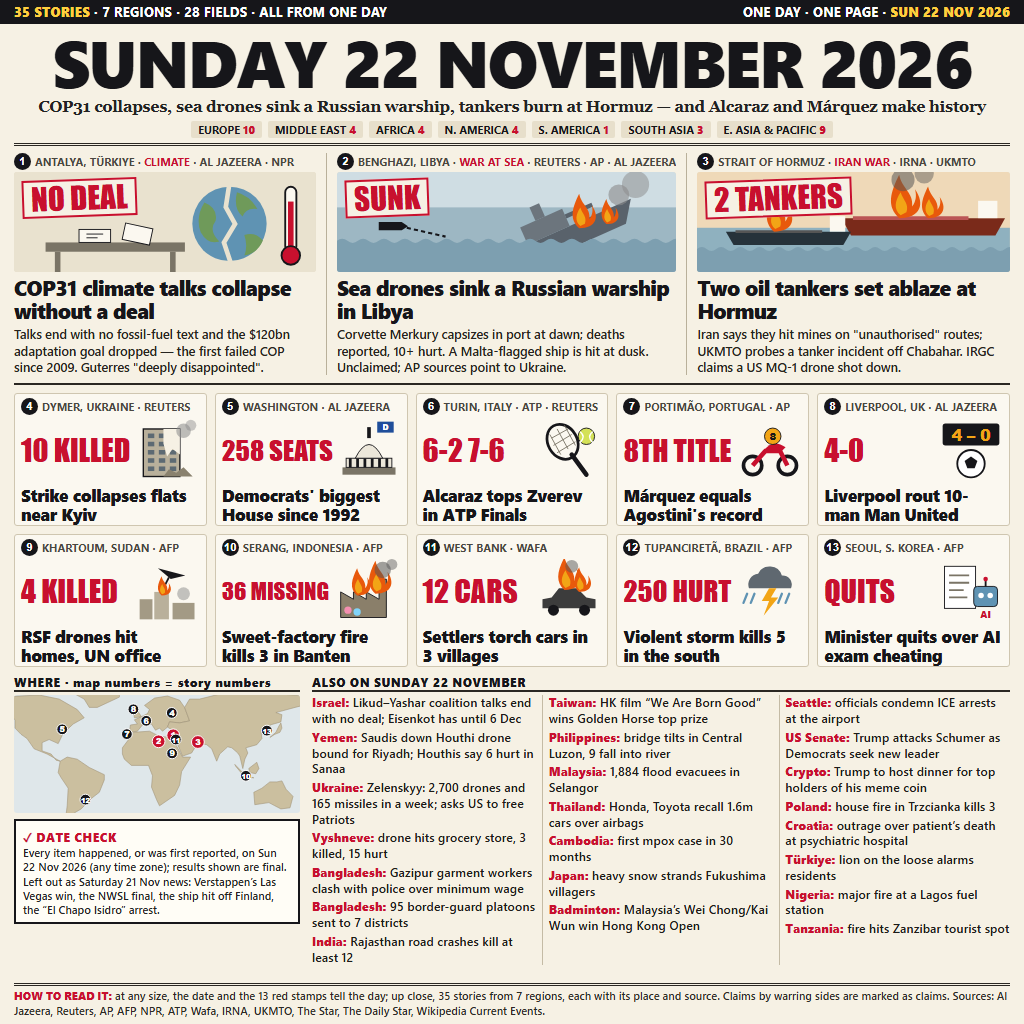
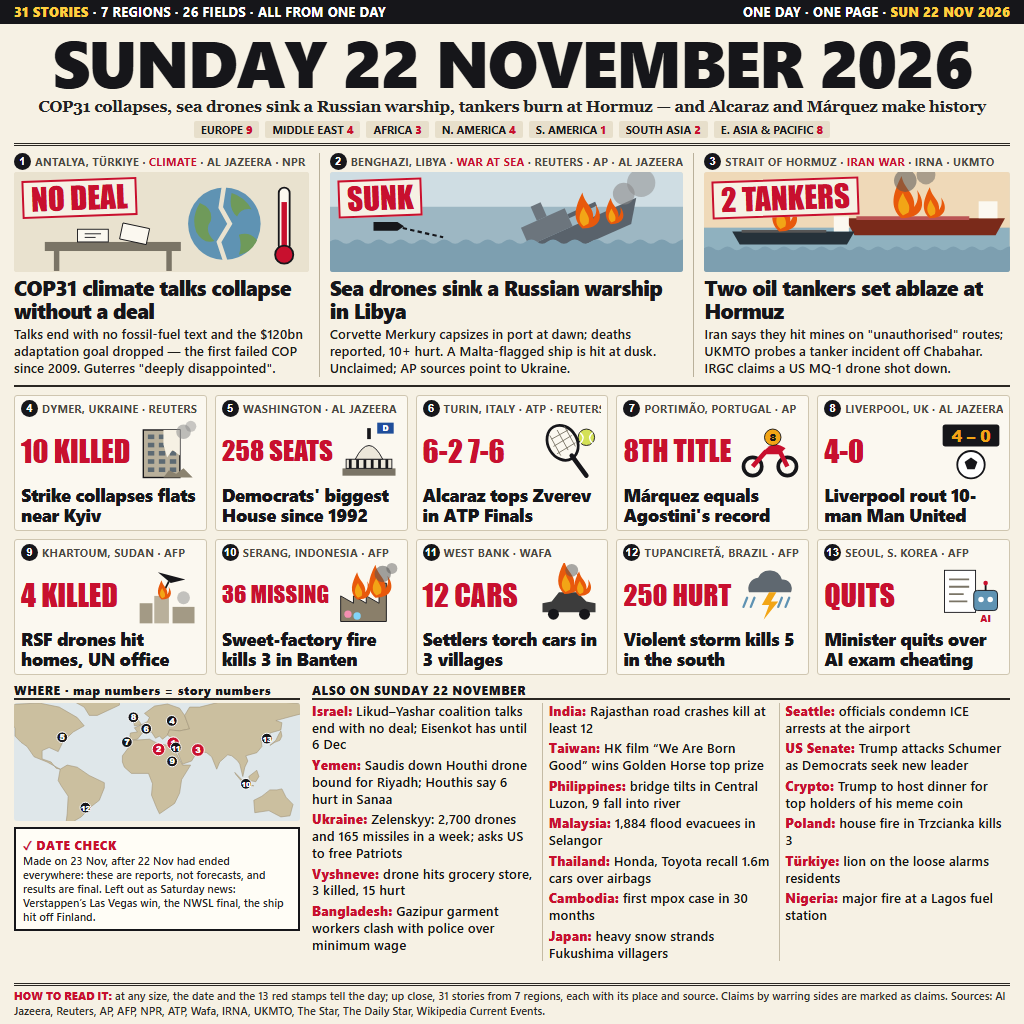
Bigger type, 18 briefs, after-the-day note in the date check

Changed region(s): [[0.0, 0.125, 1.0, 0.9375], [0.4375, 0.9688, 0.9688, 1.0], [0.0312, 0.0, 0.375, 0.0312]]

diff --git a/src/page.html b/src/page.html
@@ -20,7 +20,7 @@
   .leads { display:grid; grid-template-columns:repeat(3,1fr); gap:10px; padding:7px 14px 0; }
   .lead { border-right:1px solid #b9b09a; padding-right:10px; position:relative; }
   .lead:last-child { border-right:0; padding-right:0; }
-  .label { font:700 10.5px/13px "Segoe UI", Arial; color:var(--muted); text-transform:uppercase; letter-spacing:.3px;
+  .label { font:700 11px/13px "Segoe UI", Arial; color:var(--muted); text-transform:uppercase; letter-spacing:.3px;
     white-space:nowrap; overflow:hidden; }
   .label i { font-style:normal; color:var(--red); }
   .lead .pic { position:relative; height:100px; margin-top:2px; background:#e4ddca; border-radius:3px; overflow:hidden; }
@@ -31,14 +31,14 @@
   .num { display:inline-block; width:17px; height:17px; border-radius:50%; background:var(--ink); color:#fff;
     font:700 11px/17px Arial; text-align:center; margin-right:4px; vertical-align:1px; }
   .lead h2 { font:800 20.5px/1.12 "Segoe UI", Arial; margin-top:5px; letter-spacing:-.3px; }
-  .lead p { font:500 12.6px/1.3 "Segoe UI", Arial; margin-top:3px; color:#26241f; }
+  .lead p { font:600 13.2px/1.28 "Segoe UI", Arial; margin-top:3px; color:#1d1c19; }
   .cards { display:grid; grid-template-columns:repeat(5,1fr); gap:8px; padding:8px 14px 0; border-top:0; }
   .cardrow-rule { margin:8px 14px 0; border-top:2px solid var(--rule); }
-  .card { background:#fbf8f0; border:1px solid #cfc6b0; border-radius:3px; padding:4px 6px 5px; height:133px; overflow:hidden; }
-  .card .pic { display:flex; align-items:center; justify-content:space-between; height:66px; margin-top:2px; }
+  .card { background:#fbf8f0; border:1px solid #cfc6b0; border-radius:3px; padding:4px 6px 5px; height:136px; overflow:hidden; }
+  .card .pic { display:flex; align-items:center; justify-content:space-between; height:64px; margin-top:2px; }
   .card .stamp { font-size:30px; }
   .card svg { flex:none; }
-  .card h3 { font:800 16.8px/1.13 "Segoe UI", Arial; margin-top:3px; letter-spacing:-.2px; }
+  .card h3 { font:800 18px/1.12 "Segoe UI", Arial; margin-top:2px; letter-spacing:-.35px; }
   .bottom { display:grid; grid-template-columns:286px 1fr; gap:12px; padding:8px 14px 0; }
   .mapbox h4, .briefs h4 { font:800 12px/15px "Segoe UI", Arial; letter-spacing:.6px; border-bottom:2px solid var(--rule);
     margin-bottom:3px; }
@@ -47,7 +47,7 @@
   .check b.t { font:800 12px/15px "Segoe UI", Arial; letter-spacing:.5px; color:var(--red); }
   .check p { font:600 11px/1.28 "Segoe UI", Arial; color:#222; }
   .briefs .cols { columns:3; column-gap:12px; column-rule:1px solid #c4bba5; }
-  .briefs li { list-style:none; font:600 12.4px/1.27 "Segoe UI", Arial; break-inside:avoid; margin-bottom:3px; color:#1d1c19; }
+  .briefs li { list-style:none; font:600 13.4px/1.25 "Segoe UI", Arial; break-inside:avoid; margin-bottom:4px; color:#141412; }
   .briefs li b { color:var(--red); font-weight:800; }
   footer { position:absolute; left:14px; right:14px; bottom:6px; border-top:3px double var(--rule); padding-top:3px;
     font:600 11px/1.3 "Segoe UI", Arial; color:#2b2924; }
@@ -120,7 +120,6 @@ const BRIEFS = [
   { place:'Ukraine', field:'Russia–Ukraine', region:'Europe', text:'Zelenskyy: 2,700 drones and 165 missiles in a week; asks US to free Patriots' },
   { place:'Vyshneve', field:'Russia–Ukraine', region:'Europe', text:'drone hits grocery store, 3 killed, 15 hurt' },
   { place:'Bangladesh', field:'Labour', region:'South Asia', text:'Gazipur garment workers clash with police over minimum wage' },
-  { place:'Bangladesh', field:'Security', region:'South Asia', text:'95 border-guard platoons sent to 7 districts' },
   { place:'India', field:'Road safety', region:'South Asia', text:'Rajasthan road crashes kill at least 12' },
   { place:'Taiwan', field:'Film', region:'E. Asia & Pacific', text:'HK film “We Are Born Good” wins Golden Horse top prize' },
   { place:'Philippines', field:'Infrastructure', region:'E. Asia & Pacific', text:'bridge tilts in Central Luzon, 9 fall into river' },
@@ -128,15 +127,12 @@ const BRIEFS = [
   { place:'Thailand', field:'Autos', region:'E. Asia & Pacific', text:'Honda, Toyota recall 1.6m cars over airbags' },
   { place:'Cambodia', field:'Health', region:'E. Asia & Pacific', text:'first mpox case in 30 months' },
   { place:'Japan', field:'Weather', region:'E. Asia & Pacific', text:'heavy snow strands Fukushima villagers' },
-  { place:'Badminton', field:'Badminton', region:'E. Asia & Pacific', text:'Malaysia’s Wei Chong/Kai Wun win Hong Kong Open' },
   { place:'Seattle', field:'Immigration', region:'N. America', text:'officials condemn ICE arrests at the airport' },
   { place:'US Senate', field:'US politics', region:'N. America', text:'Trump attacks Schumer as Democrats seek new leader' },
   { place:'Crypto', field:'Crypto', region:'N. America', text:'Trump to host dinner for top holders of his meme coin' },
   { place:'Poland', field:'Accidents', region:'Europe', text:'house fire in Trzcianka kills 3' },
-  { place:'Croatia', field:'Health', region:'Europe', text:'outrage over patient’s death at psychiatric hospital' },
   { place:'Türkiye', field:'Wildlife', region:'Europe', text:'lion on the loose alarms residents' },
   { place:'Nigeria', field:'Accidents', region:'Africa', text:'major fire at a Lagos fuel station' },
-  { place:'Tanzania', field:'Accidents', region:'Africa', text:'fire hits Zanzibar tourist spot' },
 ];
 
 const ALL = [...LEADS, ...CARDS, ...BRIEFS];
@@ -278,8 +274,8 @@ document.getElementById('map').innerHTML =
   `<svg width="${MAP.w}" height="${MAP.h}" viewBox="0 0 ${MAP.w} ${MAP.h}">${land}${pins}</svg>`;
 
 document.getElementById('check').innerHTML =
-  `Every item happened, or was first reported, on Sun 22 Nov 2026 (any time zone); results shown are final. ` +
-  `Left out as Saturday 21 Nov news: Verstappen’s Las Vegas win, the NWSL final, the ship hit off Finland, the “El Chapo Isidro” arrest.`;
+  `Made on 23 Nov, after 22 Nov had ended everywhere: these are reports, not forecasts, and results are final. ` +
+  `Left out as Saturday news: Verstappen’s Las Vegas win, the NWSL final, the ship hit off Finland.`;
 
 document.getElementById('footer').innerHTML =
   `<b>HOW TO READ IT:</b> at any size, the date and the ${stamps} red stamps tell the day; up close, ${ALL.length} stories from ${regionsUsed} regions, each with its place and source. ` +
